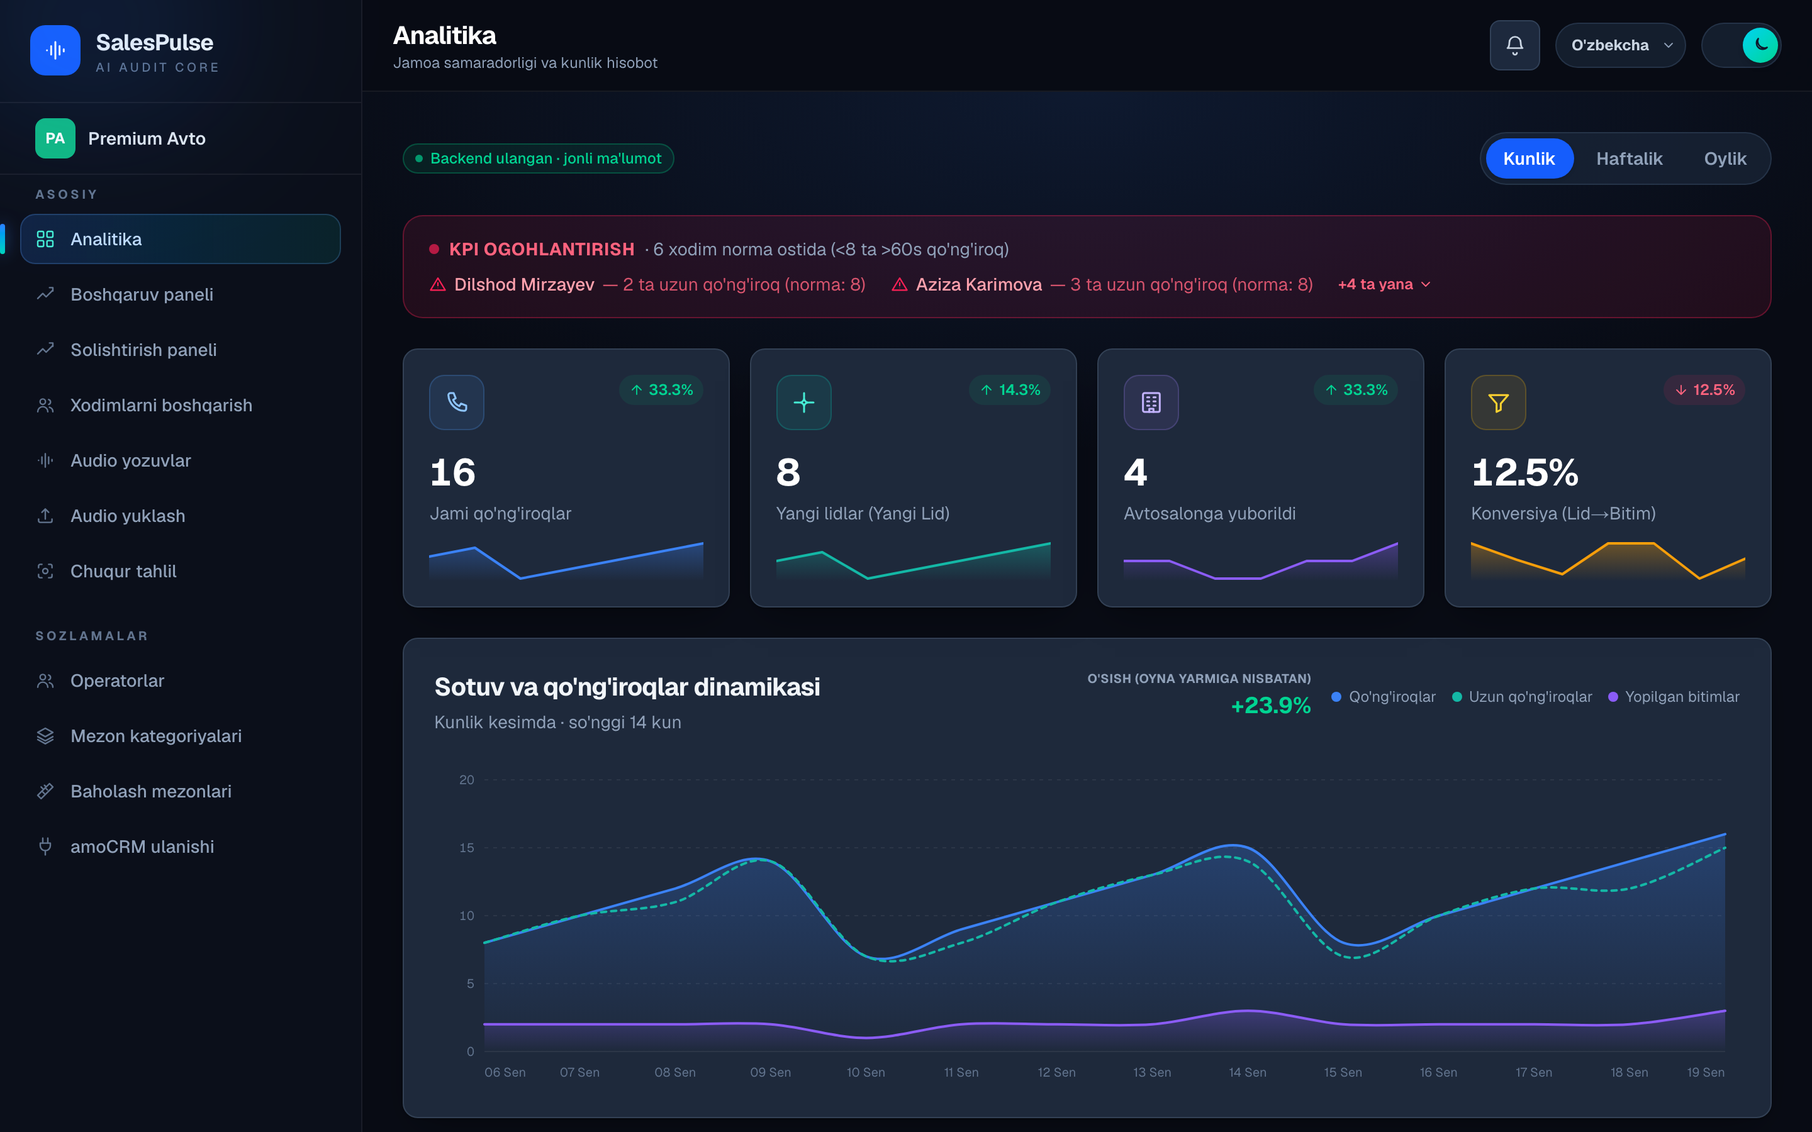
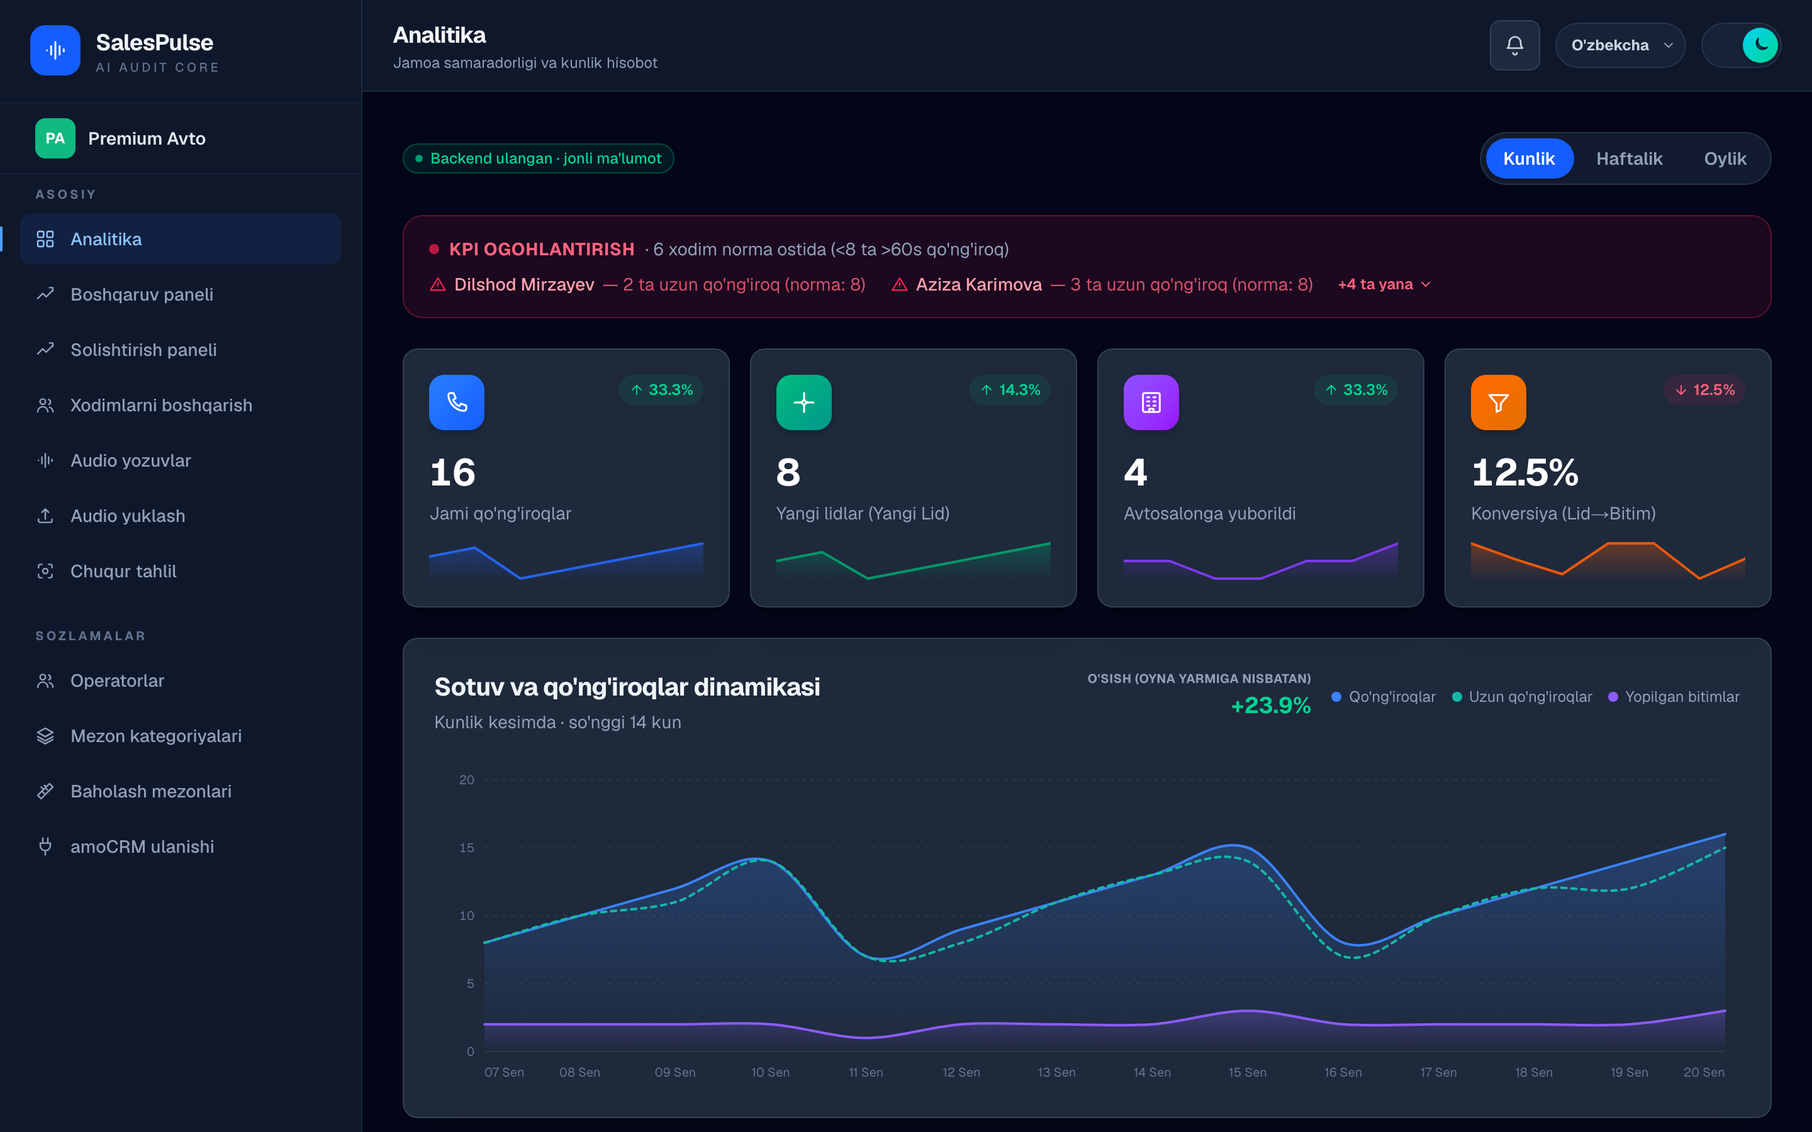
dashboard: revert visual restyle to the previous look
Sidebar/header, card surfaces, icon tiles and in-page titles are back to
how they were before the redesign pass — the new palette didn't land.
Kept: the sales/calls trend chart on Analitika, Uzbek month names in
dates, the deep-URL reload fix, and the landing/auth redesign. Product
screenshots on the landing regenerated to match.

diff --git a/app/components/AppShell.tsx b/app/components/AppShell.tsx
@@ -139,7 +139,7 @@ export function AppShell({
   }
 
   return (
-    <div className="relative min-h-screen bg-slate-50 text-slate-800 dark:bg-[#080b14] dark:text-slate-200">
+    <div className="relative min-h-screen bg-slate-50 text-slate-800 dark:bg-slate-950 dark:text-slate-200">
       {/* Mobile overlay */}
       {mobileOpen && (
         <div
@@ -151,15 +151,11 @@ export function AppShell({
       <div className="relative flex min-h-screen">
         {/* ===== Sidebar ===== */}
         <aside
-          className={`fixed inset-y-0 left-0 z-40 flex w-72 flex-col border-r border-slate-200/80 bg-white transition-transform duration-200 dark:border-white/[0.06] dark:bg-[#0b0f1a] lg:static lg:translate-x-0 ${
+          className={`fixed inset-y-0 left-0 z-40 flex w-72 flex-col border-r border-slate-200 bg-white transition-transform duration-200 dark:border-slate-800 dark:bg-slate-900 lg:static lg:translate-x-0 ${
             mobileOpen ? "translate-x-0" : "-translate-x-full"
           }`}
         >
-          <div className="relative flex items-center justify-between px-6 py-5">
-            <div
-              className="pointer-events-none absolute -left-10 -top-16 h-40 w-56 rounded-full bg-blue-500/10 blur-3xl dark:bg-blue-500/15"
-              aria-hidden="true"
-            />
+          <div className="flex items-center justify-between px-6 py-5">
             <Logo />
             <button
               onClick={() => setMobileOpen(false)}
@@ -169,14 +165,14 @@ export function AppShell({
             </button>
           </div>
 
-          <div className="border-y border-slate-100 px-6 py-3 dark:border-white/[0.06]">
+          <div className="border-y border-slate-100 px-6 py-3 dark:border-slate-800/60">
             <CompanyBadge />
           </div>
 
           <nav className="flex-1 space-y-6 overflow-y-auto px-4 py-2">
             {NAV_SECTIONS.map((section, sIdx) => (
               <div key={section.title}>
-                <p className="px-3 pb-2 text-[10px] font-bold uppercase tracking-[0.22em] text-slate-400/90 dark:text-slate-500">
+                <p className="px-3 pb-2 text-[10px] font-bold uppercase tracking-[0.2em] text-slate-400 dark:text-slate-500">
                   {t(NAV_SECTION_KEYS[sIdx] ?? "nav.section.main")}
                 </p>
                 <ul className="space-y-1">
@@ -191,21 +187,21 @@ export function AppShell({
                     return (
                       <li key={item.id} className="relative">
                         {active && (
-                          <span className="absolute -left-4 top-1/2 h-6 w-1 -translate-y-1/2 rounded-full bg-linear-to-b from-blue-500 to-teal-400 shadow-[0_0_12px_rgba(59,130,246,0.6)]" />
+                          <span className="absolute -left-4 top-1/2 h-5 w-0.5 -translate-y-1/2 rounded-full bg-blue-600 dark:bg-blue-400" />
                         )}
                         <button
                           onClick={() => (locked ? setLockedTab(item.id) : selectTab(item.id))}
-                          className={`group flex w-full items-center gap-3 rounded-xl px-3 py-2.5 text-sm font-medium transition-all duration-200 focus-visible:outline-none focus-visible:ring-2 focus-visible:ring-blue-500/50 ${
+                          className={`flex w-full items-center gap-3 rounded-lg px-3 py-2.5 text-sm font-medium transition-colors duration-150 focus-visible:outline-none focus-visible:ring-2 focus-visible:ring-blue-500/50 ${
                             justUnlocked ? "animate-unlock" : ""
                           } ${
                             active
-                              ? "bg-linear-to-r from-blue-600/12 to-teal-500/8 text-blue-700 shadow-[inset_0_0_0_1px_rgba(59,130,246,0.18)] dark:from-blue-500/18 dark:to-teal-400/10 dark:text-blue-200 dark:shadow-[inset_0_0_0_1px_rgba(96,165,250,0.22)]"
+                              ? "bg-blue-50 text-blue-700 dark:bg-blue-500/10 dark:text-blue-300"
                               : locked
-                              ? "text-slate-400 hover:bg-slate-100 hover:text-slate-500 dark:text-slate-500 dark:hover:bg-white/5"
-                              : "text-slate-500 hover:translate-x-0.5 hover:bg-slate-100 hover:text-slate-800 dark:text-slate-400 dark:hover:bg-white/5 dark:hover:text-slate-100"
+                              ? "text-slate-400 hover:bg-slate-100 hover:text-slate-500 dark:text-slate-500 dark:hover:bg-slate-800"
+                              : "text-slate-500 hover:bg-slate-100 hover:text-slate-700 dark:text-slate-400 dark:hover:bg-slate-800 dark:hover:text-slate-200"
                           }`}
                         >
-                          <Icon className={`h-4 w-4 shrink-0 transition-colors ${active ? "text-blue-600 dark:text-teal-300" : "text-slate-400 group-hover:text-slate-600 dark:text-slate-500 dark:group-hover:text-slate-300"}`} />
+                          <Icon className="h-4 w-4 shrink-0" />
                           <span className="flex-1 text-left">{t(navKeys.label)}</span>
                           {locked && <Icons.lock className="h-3.5 w-3.5 shrink-0 text-slate-400 dark:text-slate-500" />}
                         </button>
@@ -221,14 +217,14 @@ export function AppShell({
             <div className="space-y-1 px-4">
               <Link
                 href="/settings/branding"
-                className="flex items-center gap-3 rounded-xl px-3 py-2.5 text-sm font-medium text-slate-500 transition-all hover:translate-x-0.5 hover:bg-slate-100 hover:text-slate-800 dark:text-slate-400 dark:hover:bg-white/5 dark:hover:text-slate-100"
+                className="flex items-center gap-3 rounded-lg px-3 py-2.5 text-sm font-medium text-slate-500 transition-colors hover:bg-slate-100 hover:text-slate-700 dark:text-slate-400 dark:hover:bg-slate-800 dark:hover:text-slate-200"
               >
                 <Icons.building className="h-4 w-4 shrink-0" />
                 Brend sozlamalari
               </Link>
               <Link
                 href="/settings/norms"
-                className="flex items-center gap-3 rounded-xl px-3 py-2.5 text-sm font-medium text-slate-500 transition-all hover:translate-x-0.5 hover:bg-slate-100 hover:text-slate-800 dark:text-slate-400 dark:hover:bg-white/5 dark:hover:text-slate-100"
+                className="flex items-center gap-3 rounded-lg px-3 py-2.5 text-sm font-medium text-slate-500 transition-colors hover:bg-slate-100 hover:text-slate-700 dark:text-slate-400 dark:hover:bg-slate-800 dark:hover:text-slate-200"
               >
                 <Icons.ruler className="h-4 w-4 shrink-0" />
                 KPI normalari
@@ -237,9 +233,9 @@ export function AppShell({
           )}
 
           {/* Profile */}
-          <div className="border-t border-slate-200/80 p-4 dark:border-white/[0.06]">
-            <div className="flex items-center gap-3 rounded-xl border border-slate-200/70 bg-slate-50 p-3 dark:border-white/[0.06] dark:bg-white/[0.03]">
-              <span className="grid h-10 w-10 place-items-center rounded-full bg-linear-to-br from-blue-500 to-teal-400 text-sm font-bold text-white shadow-md">
+          <div className="border-t border-slate-200 p-4 dark:border-slate-800">
+            <div className="flex items-center gap-3 rounded-lg bg-slate-50 p-3 dark:bg-slate-800/60">
+              <span className="grid h-10 w-10 place-items-center rounded-full bg-blue-600 text-sm font-bold text-white">
                 {initials}
               </span>
               <div className="min-w-0 flex-1">
@@ -260,7 +256,7 @@ export function AppShell({
         {/* ===== Main ===== */}
         <div className="flex min-w-0 flex-1 flex-col">
           {/* Header */}
-          <header className="sticky top-0 z-20 flex items-center gap-3 border-b border-slate-200/80 bg-white/80 px-4 py-3.5 backdrop-blur-xl dark:border-white/[0.06] dark:bg-[#080b14]/80 sm:px-6">
+          <header className="sticky top-0 z-20 flex items-center gap-3 border-b border-slate-200 bg-white px-4 py-3.5 dark:border-slate-800 dark:bg-slate-900 sm:px-6">
             <button
               onClick={() => setMobileOpen(true)}
               className="rounded-lg p-2 text-slate-500 hover:bg-slate-500/10 lg:hidden"
@@ -269,7 +265,7 @@ export function AppShell({
             </button>
 
             <div className="min-w-0 flex-1">
-              <h1 className="truncate text-xl font-bold tracking-tight text-slate-900 dark:text-white">
+              <h1 className="truncate text-lg font-bold tracking-tight text-slate-800 dark:text-slate-100">
                 {meta.title}
               </h1>
               <p className="hidden truncate text-xs text-slate-400 sm:block">{meta.subtitle}</p>
@@ -283,12 +279,8 @@ export function AppShell({
           </header>
 
           {/* Content */}
-          <main className="relative flex-1 overflow-y-auto p-4 sm:p-6 lg:p-8">
-            <div
-              className="pointer-events-none absolute inset-x-0 top-0 h-72 bg-[radial-gradient(60%_100%_at_50%_0%,rgba(59,130,246,0.08),transparent)] dark:bg-[radial-gradient(60%_100%_at_50%_0%,rgba(59,130,246,0.12),transparent)]"
-              aria-hidden="true"
-            />
-            <div key={activeTab} className="relative mx-auto max-w-7xl animate-slide-up">
+          <main className="flex-1 overflow-y-auto p-4 sm:p-6 lg:p-8">
+            <div key={activeTab} className="mx-auto max-w-7xl animate-slide-up">
               {renderTab(activeTab)}
             </div>
           </main>

diff --git a/app/components/ManagementView.tsx b/app/components/ManagementView.tsx
@@ -9,7 +9,6 @@ import {
   Skeleton,
   PillButton,
   accentGrad,
-  accentSoft,
   accentText,
   accentGlow,
   scoreColor,
@@ -122,9 +121,11 @@ export function ManagementView() {
 
   return (
     <div key={platformId ?? "init"} className="animate-slide-up space-y-6">
-      {/* Sahifa sarlavhasi AppShell header'ida — bu yerda faqat platforma
-          almashtirgich (takroriy sarlavha yo'q, Analitika bilan bir xil). */}
-      <div className="flex flex-wrap items-center justify-end gap-4">
+      <div className="flex flex-wrap items-center justify-between gap-4">
+        <SectionTitle
+          title="Boshqaruv paneli"
+          subtitle="Uch darajali rahbariyat ko'rinishi — jonli ko'rsatkichlar"
+        />
         {platform && (
           <PlatformSwitcher
             platforms={platforms}
@@ -523,11 +524,11 @@ function GeneralPanel({ metrics }: { metrics: HealthMetric[] }) {
         return (
           <div
             key={m.key}
-            className={`rounded-2xl border border-slate-200/60 bg-white/60 p-5 transition-all duration-300 dark:border-white/[0.06] dark:bg-white/[0.03] ${accentGlow[m.accent]}`}
+            className={`rounded-2xl border border-slate-200/60 bg-white/50 p-5 transition-all duration-300 dark:border-slate-800/60 dark:bg-slate-900/30 ${accentGlow[m.accent]}`}
           >
             <div className="flex items-start justify-between">
               <span
-                className={`grid h-11 w-11 place-items-center rounded-xl ${accentSoft[m.accent]}`}
+                className={`grid h-11 w-11 place-items-center rounded-xl bg-linear-to-br text-white shadow-md ${accentGrad[m.accent]}`}
               >
                 <Icon className="h-5 w-5" />
               </span>
@@ -567,7 +568,7 @@ function StrategicPanel({ trends }: { trends: StrategicTrend[] }) {
         return (
           <div
             key={t.label}
-            className="relative overflow-hidden rounded-2xl border border-slate-200/60 bg-white/60 p-6 dark:border-white/[0.06] dark:bg-white/[0.03]"
+            className="relative overflow-hidden rounded-2xl border border-slate-200/60 bg-white/50 p-6 dark:border-slate-800/60 dark:bg-slate-900/30"
           >
             <div
               className={`pointer-events-none absolute -right-10 -top-10 h-32 w-32 rounded-full bg-linear-to-br opacity-10 blur-2xl ${accentGrad[t.accent]}`}
@@ -674,7 +675,7 @@ function RopPanel({ sellers, accent }: { sellers: SellerKPI[]; accent: Accent })
         {sellers.map((s) => (
           <div
             key={s.id}
-            className="rounded-2xl border border-slate-200/60 bg-white/60 p-4 dark:border-white/[0.06] dark:bg-white/[0.03]"
+            className="rounded-2xl border border-slate-200/60 bg-white/50 p-4 dark:border-slate-800/60 dark:bg-slate-900/30"
           >
             <div className="flex items-center justify-between">
               <SellerIdentity seller={s} />
@@ -713,9 +714,9 @@ function SummaryStat({
 }) {
   const Icon = Icons[icon];
   return (
-    <div className="flex items-center gap-3 rounded-2xl border border-slate-200/60 bg-white/60 p-3.5 dark:border-white/[0.06] dark:bg-white/[0.03]">
+    <div className="flex items-center gap-3 rounded-2xl border border-slate-200/60 bg-white/50 p-3.5 dark:border-slate-800/60 dark:bg-slate-900/30">
       <span
-        className={`grid h-9 w-9 shrink-0 place-items-center rounded-xl ${accentSoft[accent]}`}
+        className={`grid h-9 w-9 shrink-0 place-items-center rounded-xl bg-linear-to-br text-white shadow-sm ${accentGrad[accent]}`}
       >
         <Icon className="h-4.5 w-4.5" />
       </span>

diff --git a/app/components/AnalyticsView.tsx b/app/components/AnalyticsView.tsx
@@ -44,15 +44,12 @@ const BACKEND_UNREACHABLE_MESSAGE = "Backend bilan aloqa yo'q. Iltimos qayta uri
  * oladi; bu sahifa reference dizaynidagi ko'k/yashil-firuza/binafsha/to'q
  * sariq/pushti to'plamini talab qiladi — shuning uchun kartalar uchun
  * alohida, xom Tailwind ranglariga asoslangan mini-palitra. */
-/* Icon tiles are soft tints with a hairline ring (not solid gradient blocks)
- * — the same restrained treatment premium analytics tools use; the color
- * still identifies the metric, the line/sparkline carries the saturation. */
 const CARD_THEME = {
-  blue: { icon: "bg-blue-500/10 text-blue-600 ring-1 ring-inset ring-blue-500/20 dark:bg-blue-400/10 dark:text-blue-300 dark:ring-blue-400/20", text: "text-blue-600 dark:text-blue-400", line: "#3b82f6" },
-  teal: { icon: "bg-teal-500/10 text-teal-600 ring-1 ring-inset ring-teal-500/20 dark:bg-teal-400/10 dark:text-teal-300 dark:ring-teal-400/20", text: "text-teal-600 dark:text-teal-400", line: "#14b8a6" },
-  purple: { icon: "bg-violet-500/10 text-violet-600 ring-1 ring-inset ring-violet-500/20 dark:bg-violet-400/10 dark:text-violet-300 dark:ring-violet-400/20", text: "text-violet-600 dark:text-violet-400", line: "#8b5cf6" },
-  orange: { icon: "bg-amber-500/10 text-amber-600 ring-1 ring-inset ring-amber-500/20 dark:bg-amber-400/10 dark:text-amber-300 dark:ring-amber-400/20", text: "text-amber-600 dark:text-amber-400", line: "#f59e0b" },
-  rose: { icon: "bg-rose-500/10 text-rose-600 ring-1 ring-inset ring-rose-500/20 dark:bg-rose-400/10 dark:text-rose-300 dark:ring-rose-400/20", text: "text-rose-600 dark:text-rose-400", line: "#f43f5e" },
+  blue: { icon: "bg-linear-to-br from-blue-500 to-blue-600", text: "text-blue-600 dark:text-blue-400", line: "#2563eb" },
+  teal: { icon: "bg-linear-to-br from-emerald-500 to-teal-600", text: "text-emerald-600 dark:text-emerald-400", line: "#059669" },
+  purple: { icon: "bg-linear-to-br from-violet-500 to-purple-600", text: "text-violet-600 dark:text-violet-400", line: "#7c3aed" },
+  orange: { icon: "bg-linear-to-br from-orange-500 to-amber-600", text: "text-orange-600 dark:text-orange-400", line: "#ea580c" },
+  rose: { icon: "bg-linear-to-br from-rose-500 to-pink-600", text: "text-rose-600 dark:text-rose-400", line: "#e11d48" },
 } as const;
 type CardColor = keyof typeof CARD_THEME;
 
@@ -411,7 +408,7 @@ function TopStatCard({
   return (
     <Card hover className="p-5">
       <div className="flex items-start justify-between">
-        <span className={`grid h-11 w-11 place-items-center rounded-xl ${theme.icon}`}>
+        <span className={`grid h-11 w-11 place-items-center rounded-xl text-white shadow-md ${theme.icon}`}>
           <Icon className="h-5 w-5" />
         </span>
         <DeltaBadge changePct={stat?.changePct ?? null} />
@@ -583,7 +580,7 @@ function SmallBadgeCard({
           {stat ? stat.value.toLocaleString() : "—"}
         </p>
       </div>
-      <span className={`grid h-12 w-12 shrink-0 place-items-center rounded-2xl ${theme.icon}`}>
+      <span className={`grid h-12 w-12 shrink-0 place-items-center rounded-2xl text-white shadow-md ${theme.icon}`}>
         <Icon className="h-6 w-6" />
       </span>
     </Card>

diff --git a/app/components/StaffManager.tsx b/app/components/StaffManager.tsx
@@ -3,7 +3,7 @@
 import { useEffect, useRef, useState, type ReactNode } from "react";
 import { AnimatePresence, motion } from "framer-motion";
 import { Icons } from "./Icons";
-import { PillButton, Skeleton, ConfirmModal, accentForId, accentGrad, initialsOf } from "./ui";
+import { SectionTitle, PillButton, Skeleton, ConfirmModal, accentForId, accentGrad, initialsOf } from "./ui";
 import { Portal } from "./Portal";
 import { showToast } from "../lib/toast";
 import { apiUrl } from "../lib/api";
@@ -153,12 +153,15 @@ export function StaffManager() {
 
   return (
     <div className="space-y-6">
-      <div className="flex items-center justify-between gap-4">
-        <p className="text-sm text-slate-500 dark:text-slate-400">Xodimlarni tahrirlash, smena va skriptlarni biriktirish</p>
-        <PillButton icon="plus" onClick={() => setEditing("new")}>
-          Yangi operator
-        </PillButton>
-      </div>
+      <SectionTitle
+        title="Operatorlar boshqaruvi"
+        subtitle="Xodimlarni tahrirlash, smena va skriptlarni biriktirish"
+        action={
+          <PillButton icon="plus" onClick={() => setEditing("new")}>
+            Yangi operator
+          </PillButton>
+        }
+      />
 
       {loading ? (
         <div className="grid grid-cols-1 gap-4 sm:grid-cols-2 xl:grid-cols-3">

diff --git a/app/components/ui.tsx b/app/components/ui.tsx
@@ -43,17 +43,6 @@ export const accentGrad: Record<Accent, string> = {
   violet: "from-amber-500 to-amber-600",
 };
 
-/* Soft tint tile for metric icons — restrained "premium" alternative to a
- * solid gradient block: translucent accent fill + hairline ring, icon in
- * the accent color. Use for KPI/stat icons; keep accentGrad for avatars,
- * progress bars and CTAs where saturation is the point. */
-export const accentSoft: Record<Accent, string> = {
-  indigo: "bg-blue-500/10 text-blue-600 ring-1 ring-inset ring-blue-500/20 dark:bg-blue-400/10 dark:text-blue-300 dark:ring-blue-400/20",
-  cyan: "bg-teal-500/10 text-teal-600 ring-1 ring-inset ring-teal-500/20 dark:bg-teal-400/10 dark:text-teal-300 dark:ring-teal-400/20",
-  emerald: "bg-emerald-500/10 text-emerald-600 ring-1 ring-inset ring-emerald-500/20 dark:bg-emerald-400/10 dark:text-emerald-300 dark:ring-emerald-400/20",
-  violet: "bg-amber-500/10 text-amber-600 ring-1 ring-inset ring-amber-500/20 dark:bg-amber-400/10 dark:text-amber-300 dark:ring-amber-400/20",
-};
-
 /* A faint accent-tinted ambient shadow, layered on top of Card's own
  * elevation — a subtle premium touch so each stat tile's shadow echoes its
  * icon color instead of being perfectly neutral gray. */

diff --git a/app/globals.css b/app/globals.css
@@ -304,20 +304,17 @@ body {
  * "raised" the way premium dashboards do rather than as a plain outline. */
 .glass {
   background-color: rgb(255 255 255);
-  border: 1px solid rgb(226 232 240 / 0.9);
+  border: 1px solid rgb(226 232 240);
   box-shadow:
     0 1px 2px 0 rgb(15 23 42 / 0.04),
     0 8px 24px -12px rgb(15 23 42 / 0.08);
 }
-/* Dark: a deep navy-charcoal surface with a hairline border and a faint
- * top highlight — reads as a machined panel rather than a flat grey box. */
 .dark .glass {
-  background-color: rgb(15 20 33);
-  border-color: rgb(255 255 255 / 0.07);
+  background-color: rgb(30 41 59);
+  border-color: rgb(51 65 85);
   box-shadow:
-    0 1px 0 rgb(255 255 255 / 0.04) inset,
-    0 1px 2px 0 rgb(0 0 0 / 0.4),
-    0 16px 40px -20px rgb(0 0 0 / 0.7);
+    0 1px 2px 0 rgb(0 0 0 / 0.3),
+    0 12px 28px -14px rgb(0 0 0 / 0.5);
 }
 
 /* Elevation lift on hover — a slightly deeper shadow + 1px rise, used by

diff --git a/app/components/views.tsx b/app/components/views.tsx
@@ -47,7 +47,6 @@ import {
   scoreAccent,
   accentText,
   accentGrad,
-  accentSoft,
   accentForId,
   initialsOf,
   type Accent,
@@ -2003,7 +2002,7 @@ function FlowStep({
   return (
     <div className="relative rounded-2xl border border-slate-200/60 bg-white/40 p-4 dark:border-slate-700/50 dark:bg-slate-800/30">
       <div className="flex items-center gap-2.5">
-        <span className={`grid h-9 w-9 shrink-0 place-items-center rounded-xl ${accentSoft[accent]}`}>
+        <span className={`grid h-9 w-9 shrink-0 place-items-center rounded-xl bg-linear-to-br ${accentGrad[accent]} text-white shadow-sm`}>
           <Icon className="h-4 w-4" />
         </span>
         <span className="text-[11px] font-bold text-slate-300 dark:text-slate-600">0{n}</span>

diff --git a/app/components/ComparisonView.tsx b/app/components/ComparisonView.tsx
@@ -180,6 +180,11 @@ export function ComparisonView() {
 
   return (
     <div className="animate-slide-up space-y-6">
+      <SectionTitle
+        title="Solishtirish paneli"
+        subtitle="Kunlik, haftalik va oylik natijalar — oldingi davr bilan yonma-yon"
+      />
+
       {isLoading && !pop && (
         <div className="grid grid-cols-1 gap-4 lg:grid-cols-3">
           <Skeleton className="h-56" />
